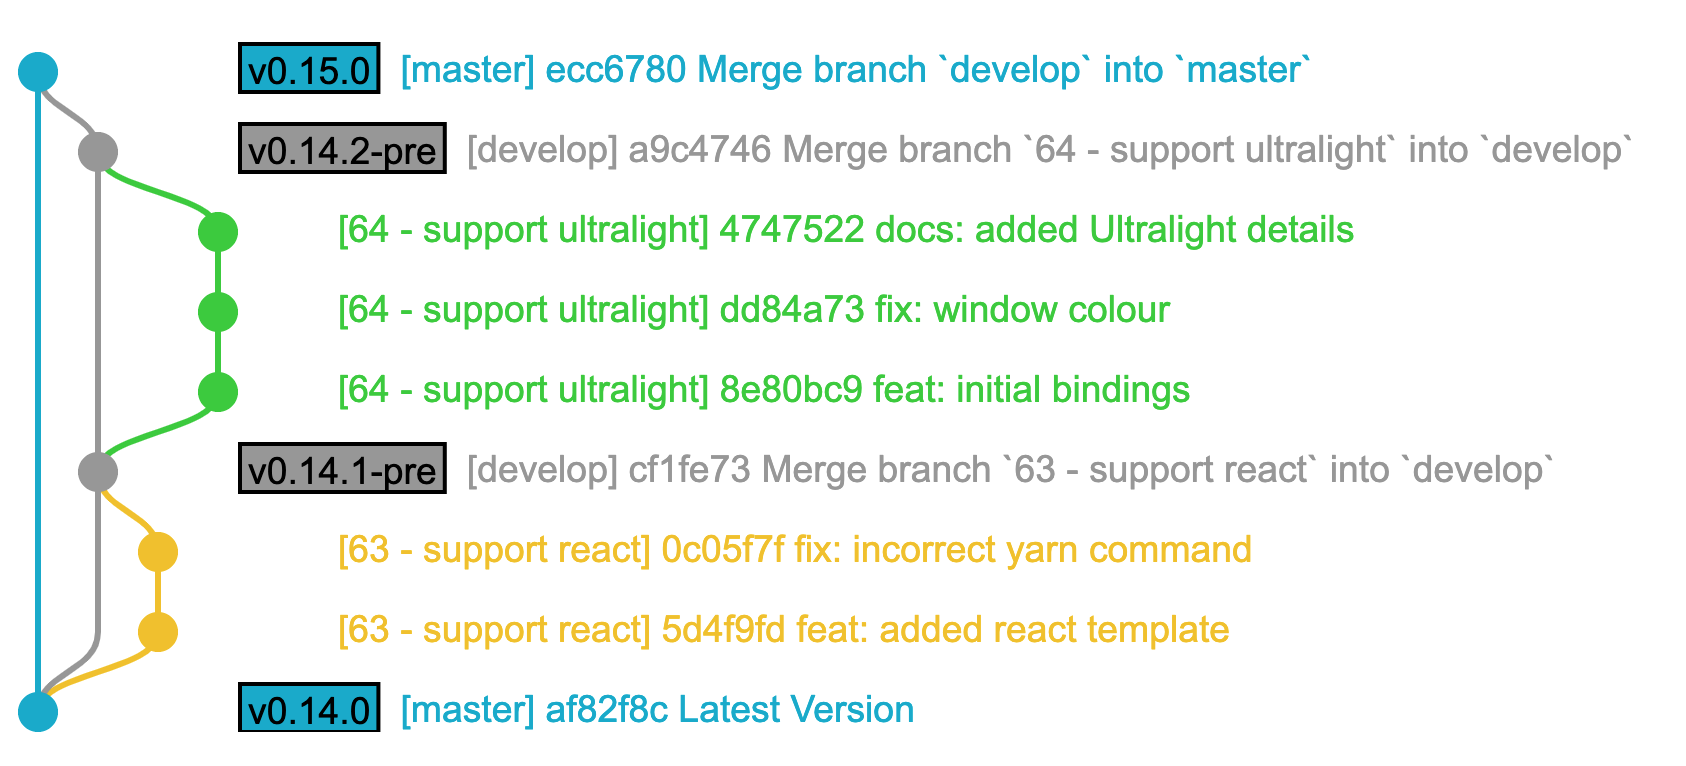
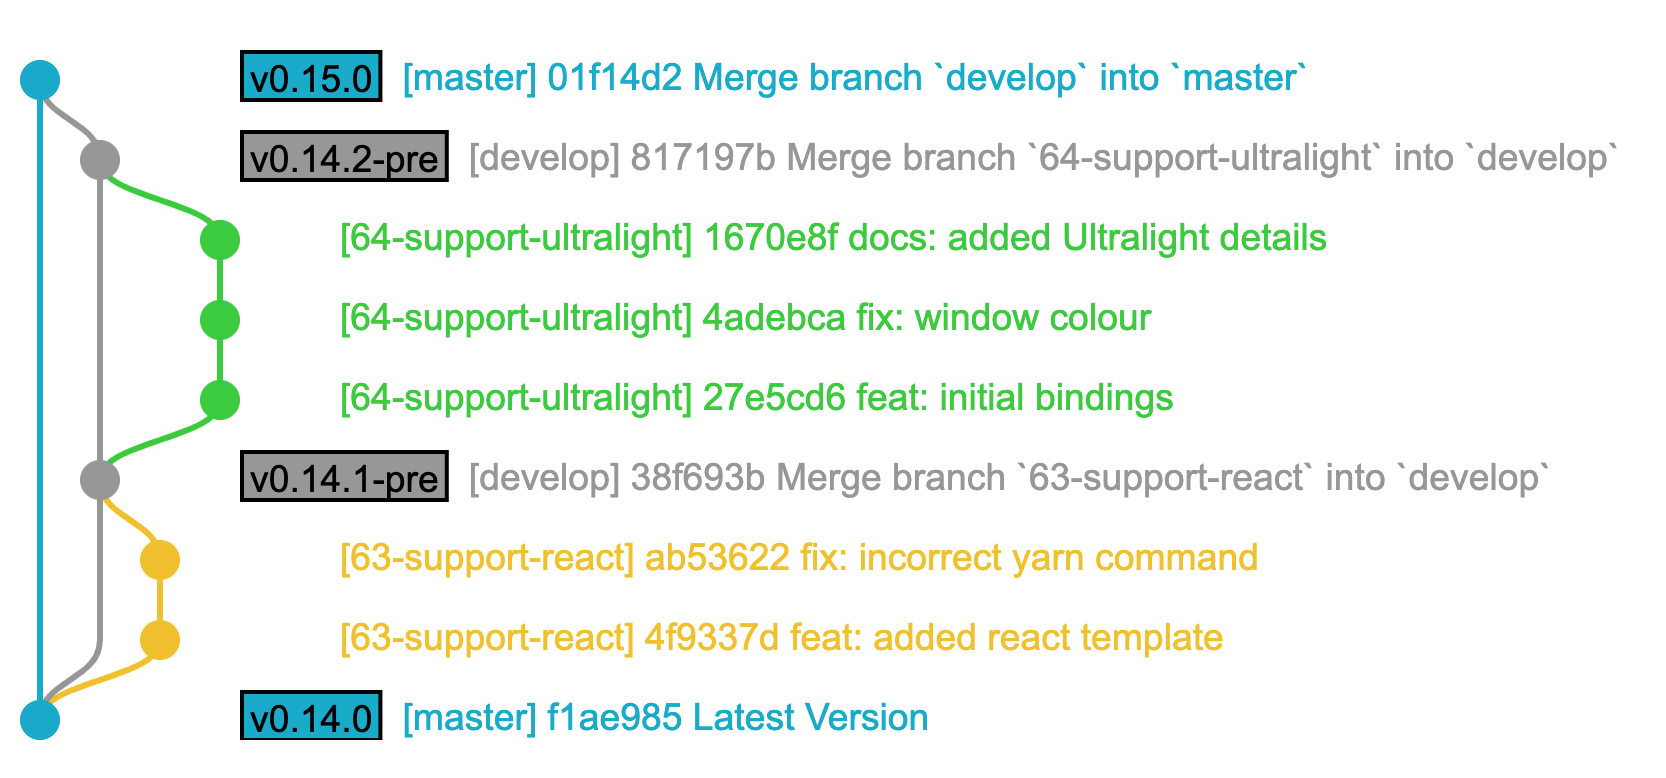
updated branch image

diff --git a/development/README.md b/development/README.md
@@ -2,17 +2,18 @@
 
 In this section we cover all aspects of Wails development and contribution guidelines.
 
+## Background
+
+Historically, Wails development has been quite ad-hoc. The aim of this proposal is to create a simple workflow for contributing to the project. It is meant as a starting point and any improvements to this process are welcome (please open a ticket!).
+
 ## Issue Driven Development
 
-If there is something to add to the code, whether a bug or enhancement, open a ticket so that it can be discussed. If the coding goes ahead, create a new branch off `develop` and reference the ticket ID, eg:
+If there is something to add to the code, whether a bug or enhancement, a ticket should be opened so that it can be discussed. If the coding goes ahead, a new branch should be created from the `develop` branch with a reference to the ticket ID, eg:
   `64 - Support react`
 
 Commit messages should follow the [conventional commits](https://www.conventionalcommits.org/en/v1.0.0-beta.3/#summary) format:
 
-  * fix: message 
-  * feat: message
-  * docs: message
-  * BREAKING CHANGE: message
+  * tag[(scope)]: message 
 
 | Tag             | Meaning              |
 | --------------- | -------------------- | 
@@ -20,6 +21,12 @@ Commit messages should follow the [conventional commits](https://www.conventiona
 | feat            | New Feature          | 
 | docs            | Documentation update |
 | BREAKING CHANGE | API Change           |
+
+Examples:
+
+  * fix: this is a fix for the project as a whole
+  * fix(cli): this is a fix for the cli
+  * docs: updated the contributors 
 
 ## Branch Workflow
 
